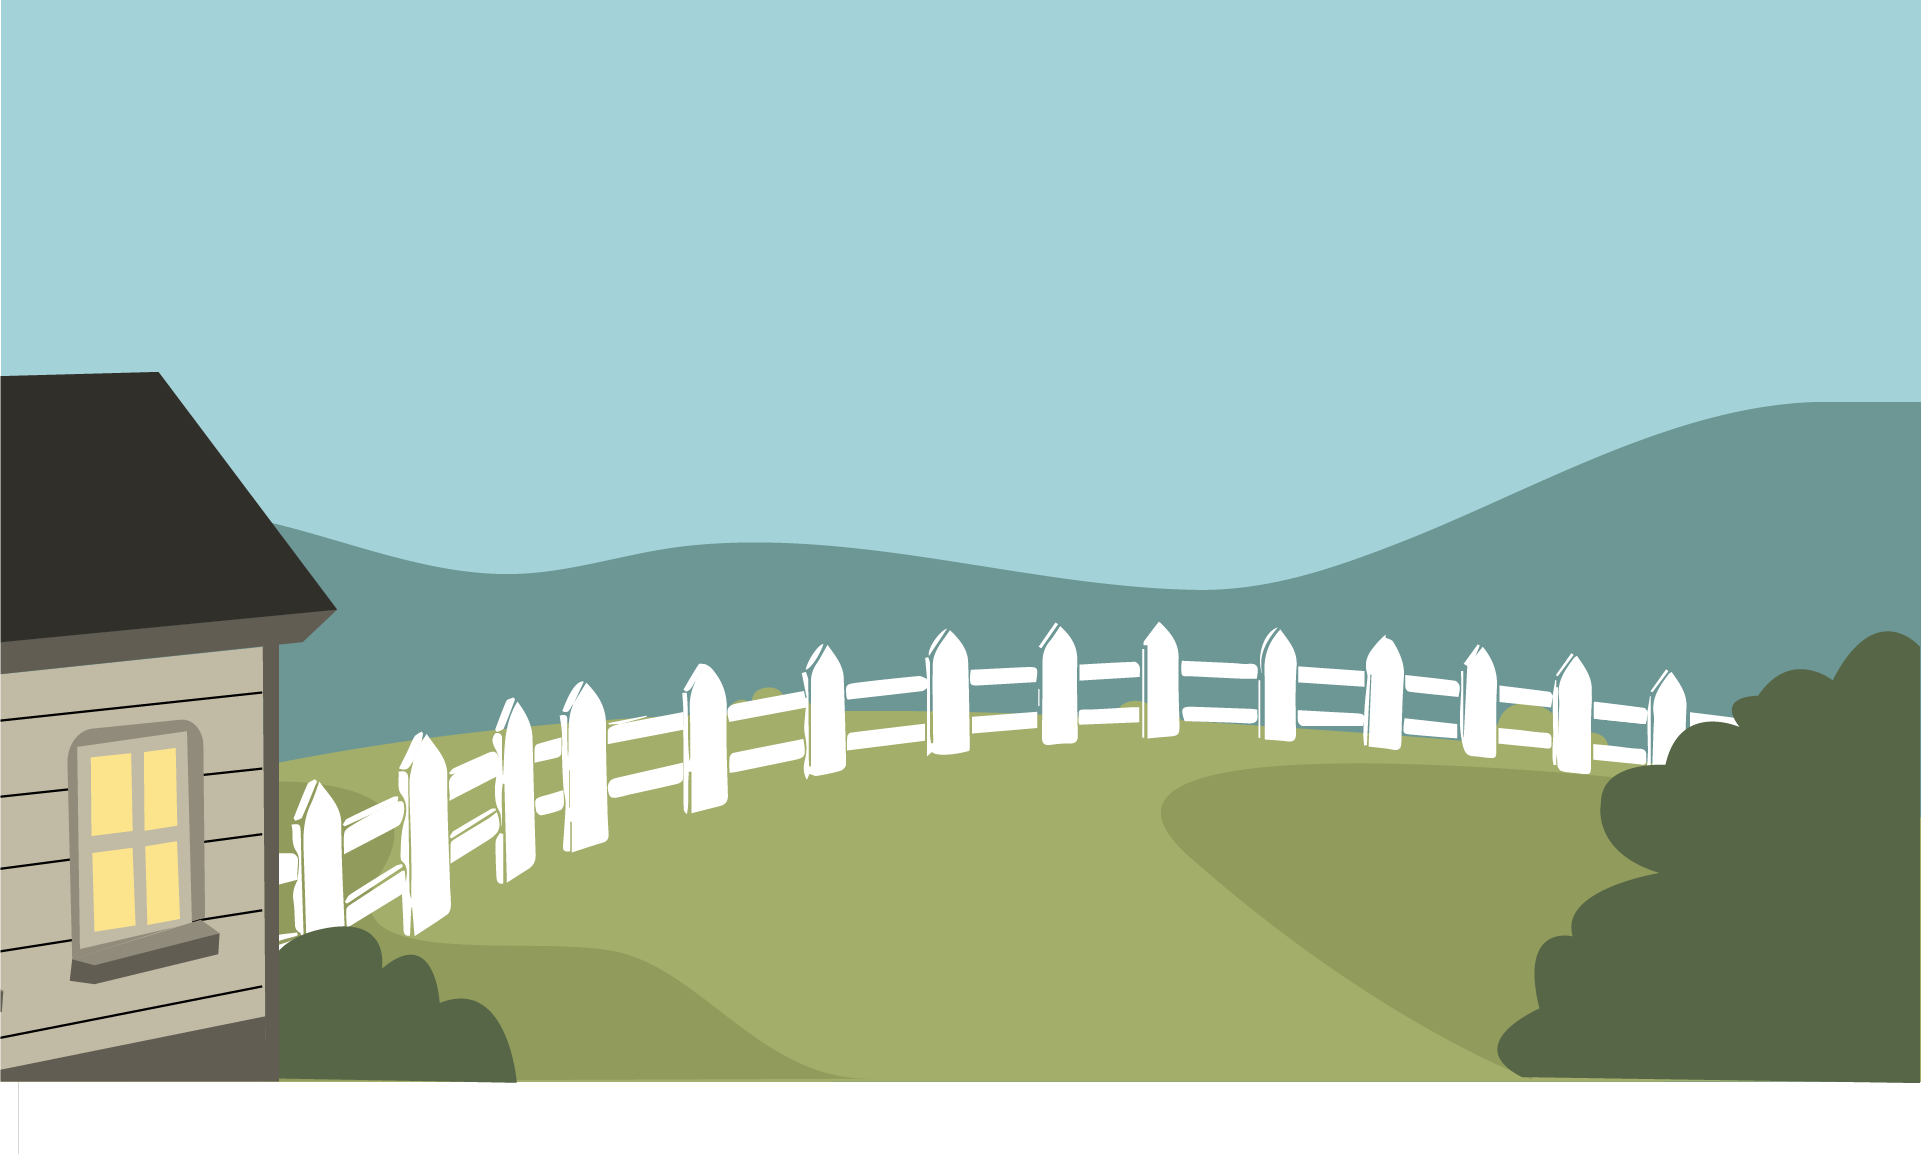
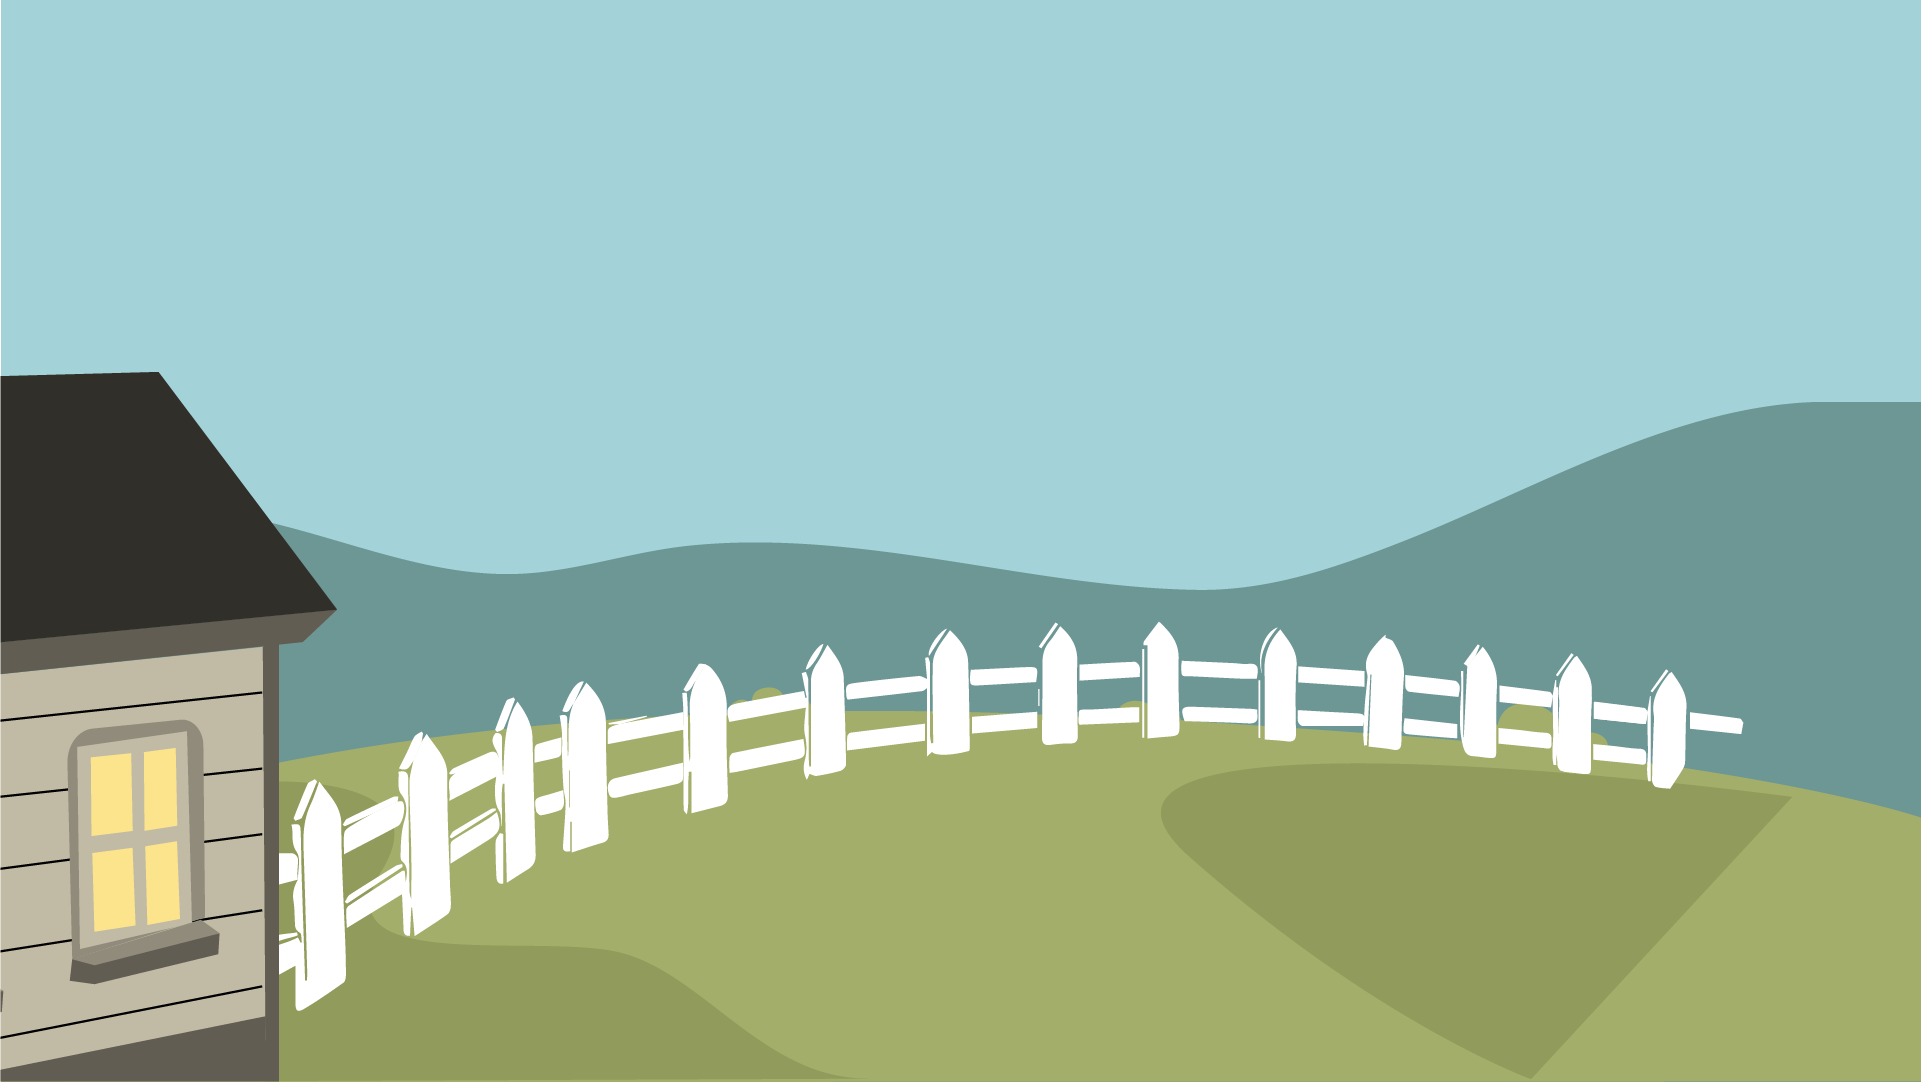
arbusto

Changed region(s): [[0.0, 0.3355, 1.0, 1.0], [0.0, 0.305, 0.0937, 0.366], [0.0937, 0.366, 0.1249, 0.427]]

diff --git a/src/components/ReproductorGa.jsx b/src/components/ReproductorGa.jsx
@@ -1,17 +1,32 @@
-import React from 'react'
+import { useRef } from "react"
 import LottieModule from "lottie-react";
+import arbustosdel from "../assets/arbustosdel.json"
 import "../stylesheets/AnimacionGato.css"
+
+const Lottie = LottieModule.default;
 
 
 export const ReproductorGa = () => {
+
+  const lottieRefarbustosdel = useRef()
+
+  const reproducirarbustosdel = () => {
+        lottieRefarbustosdel.current.stop()
+        lottieRefarbustosdel.current.play()
+  }
+
+
   return (
     <>
-    <div className="container py-5">
-      <div className="row justify-content-center">
-        <div className="col col-6 bg-light text-center">
-          <img className="escenario" src="escenario.webp" alt="" />
-
-        </div>
+    <div className="escenario py-5">
+      <img className='exterior' src="escenario.webp" alt="" />
+      <div>
+        <Lottie onClick={reproducirarbustosdel} className="arbustosdel"
+          lottieRef={lottieRefarbustosdel}
+          animationData={luz}
+          loop={false}
+          autoplay={false}
+        />
       </div>
 
     </div>

diff --git a/src/stylesheets/AnimacionGato.css b/src/stylesheets/AnimacionGato.css
@@ -1,3 +1,17 @@
 .escenario{
-    width: 250%;
+    width: 1100px;
+    height: 500px;
+    position: relative;
+}
+.exterior{
+    position: absolute;
+    width: 800px;
+    top: 15px;
+    left: 160px;
+}
+.luz{
+    position: absolute;
+    width: 200px;
+    top: 350px;
+    left: 200px;
 }
